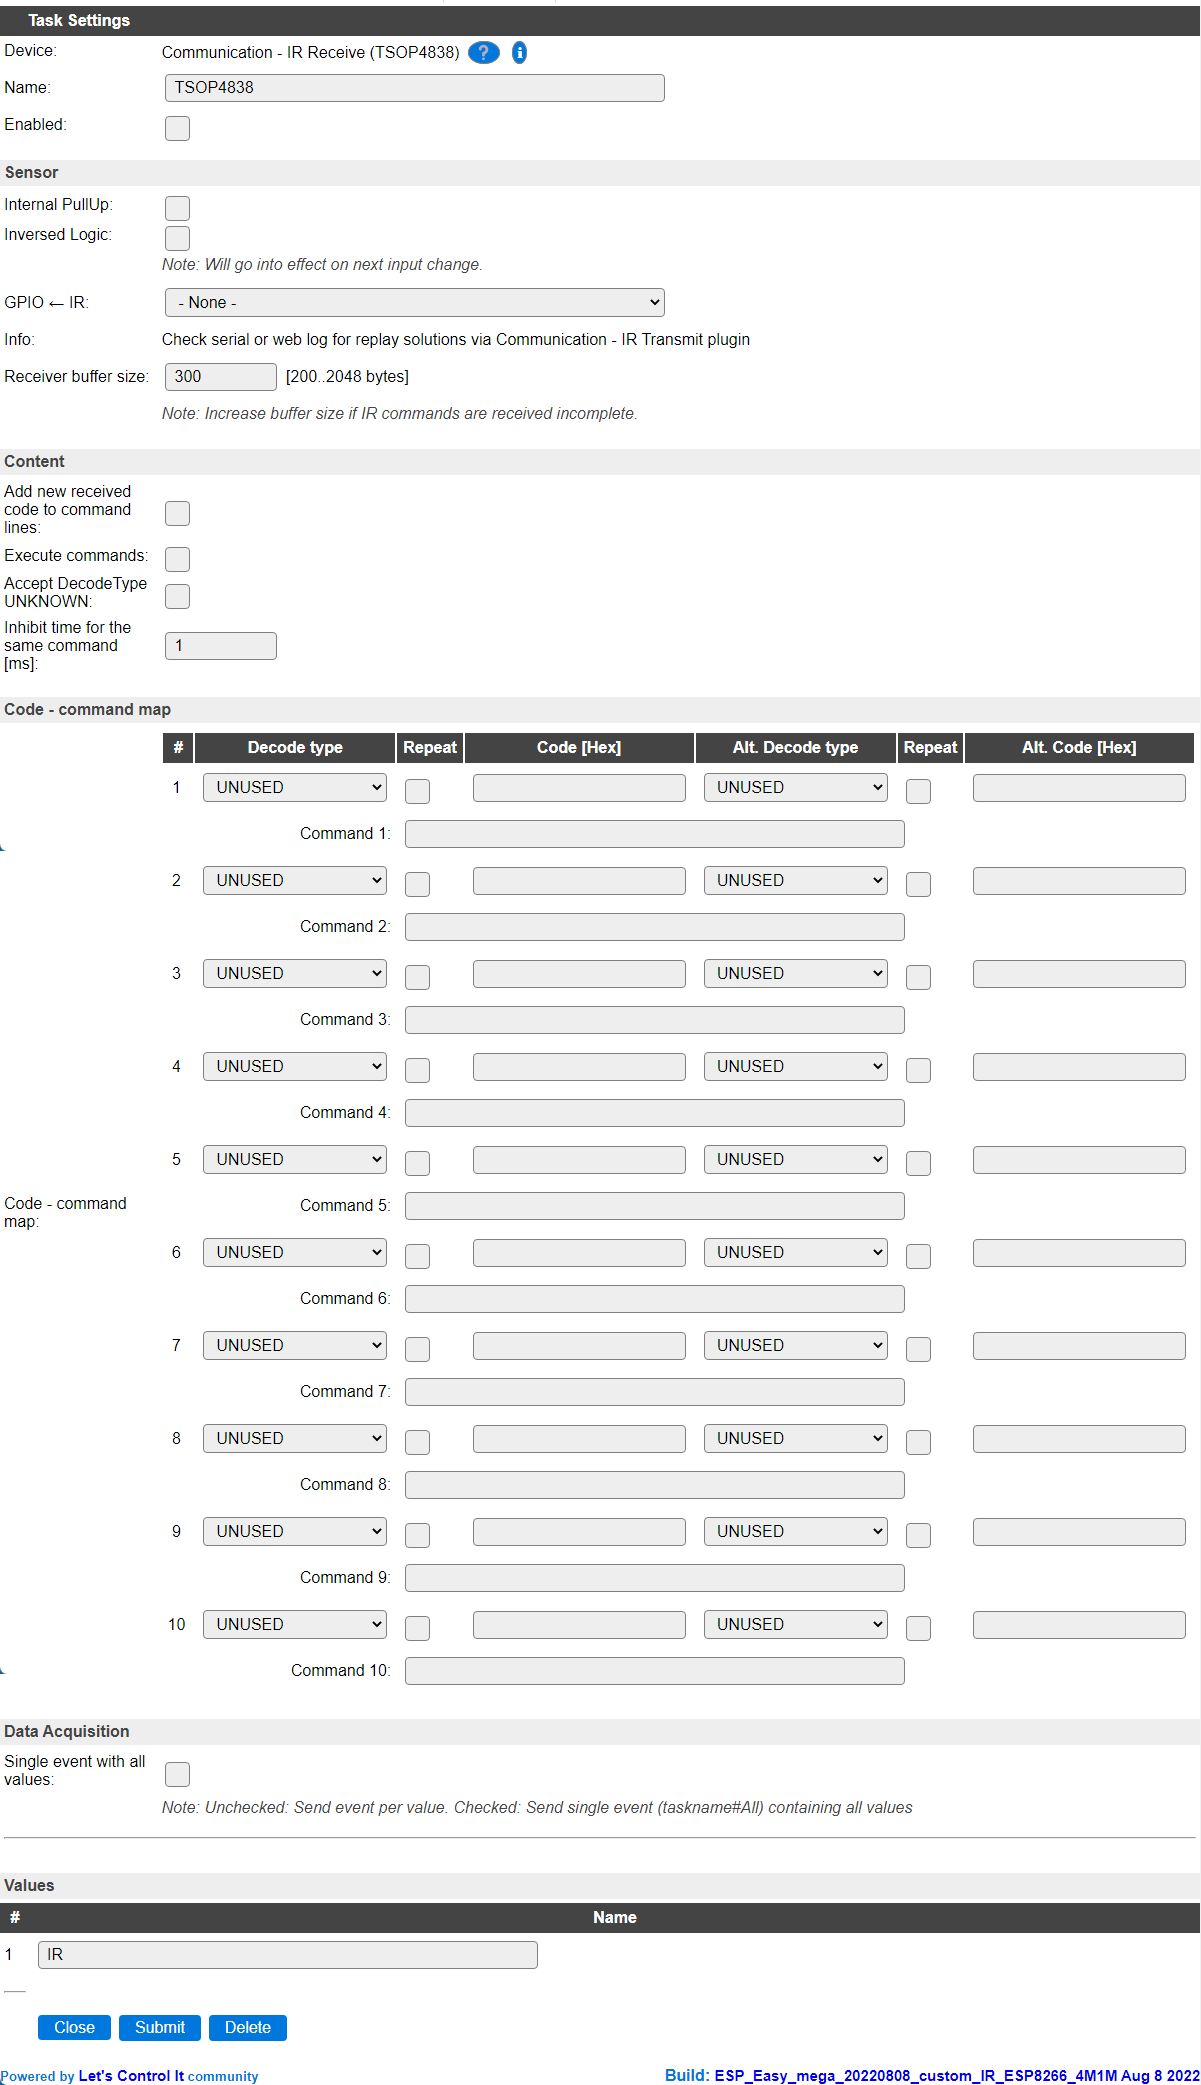
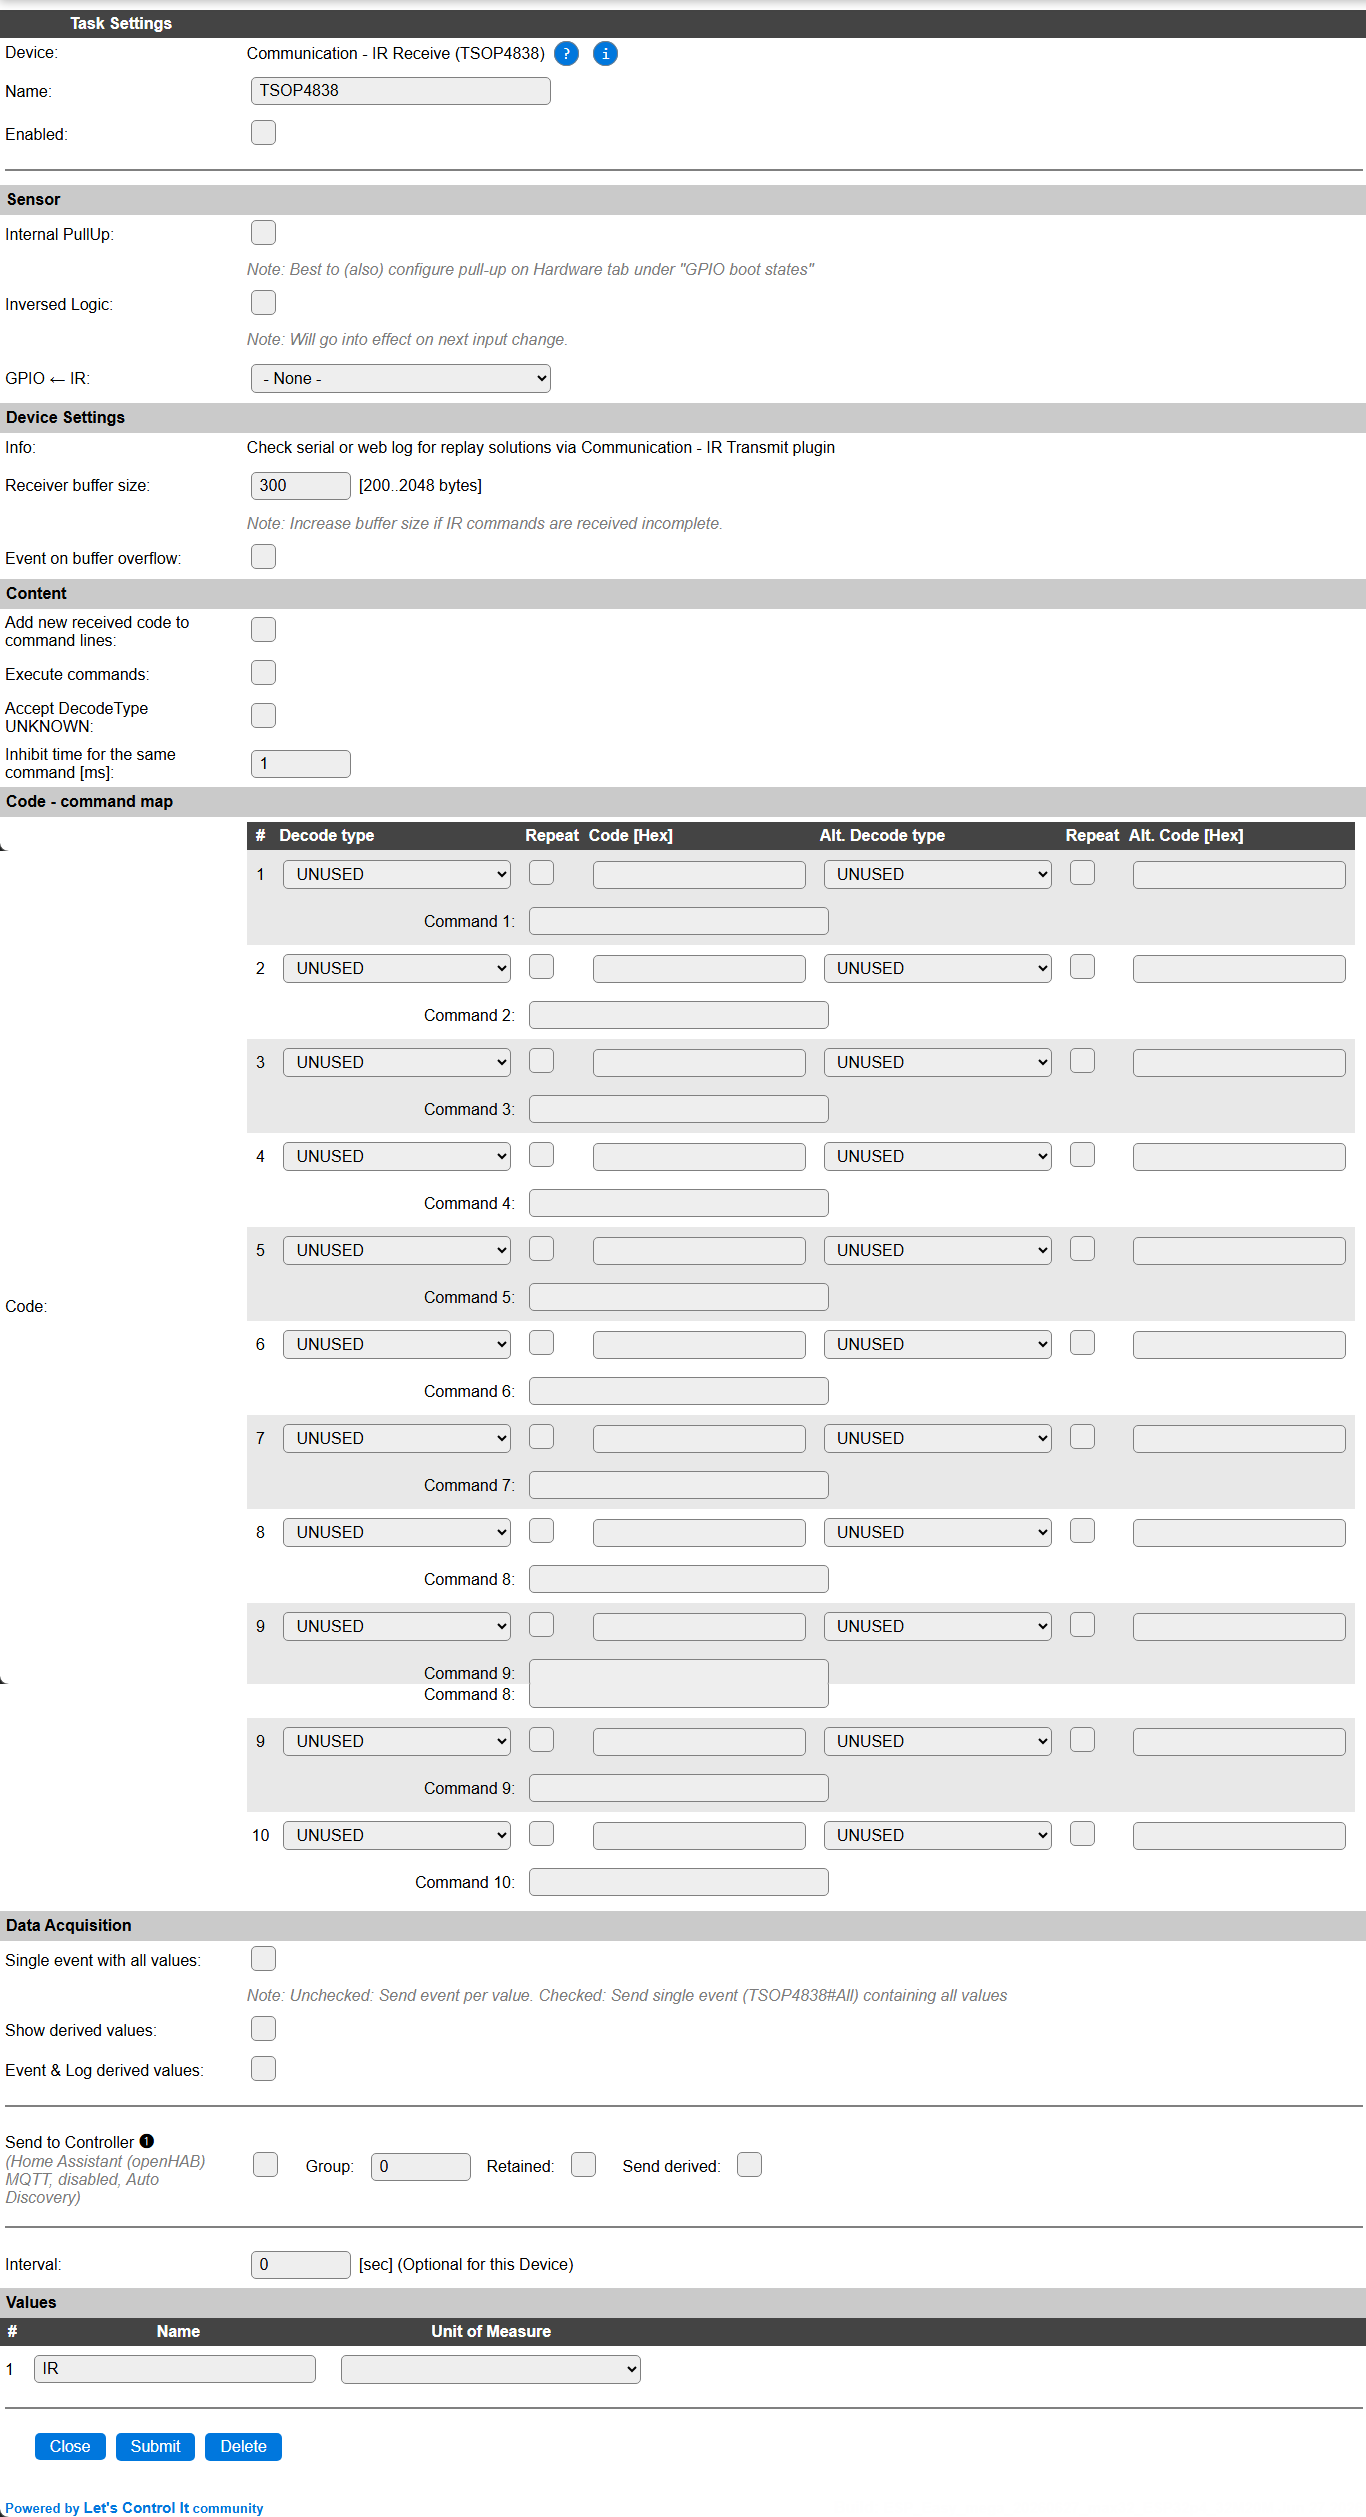
[P016] Update documentation

Changed region(s): [[0.0, 0.0, 1.0, 1.0], [0.5545, 0.9664, 1.0, 1.0], [0.0, 0.5612, 0.0308, 0.5923]]

diff --git a/docs/source/Plugin/P016_TSOP4838.rst b/docs/source/Plugin/P016_TSOP4838.rst
@@ -39,6 +39,8 @@ Sensor
 
 * **Receiver buffer size**: For receiving and decoding the data from the sensor, a buffer is needed. For more complex protocols, like often used for Air Conditioner remote controls, a larger buffer may be needed. By default this buffer is dimensioned at 300 bytes (will be rounded up to the next even number when stored), and needs to be enlarged if a message of this intent is shown in the log at INFO level (Either Web or serial log).
 
+* **Event on boffer overflow**: When enabled, will generate an event ``<TaskName>#Overflow=<raw_buffer_length>`` when the buffer overflows, so this can be used as a way to handle this exception, f.e. by lighting up a LED or activating a buzzer. The received data won't be processed further, and discarded, when this error occurs.
+
 Content
 ^^^^^^^
 
@@ -71,10 +73,7 @@ Code - command map
 
 .. note:: Using compile-time options, the **Code - command map** and related options can be disabled.
 
-Data acquisition
-~~~~~~~~~~~~~~~~
-
-This group of settings, **Single event with all values** settings are standard available configuration items.
+.. include:: DataAcquisition.repl
 
 Values
 ~~~~~~
